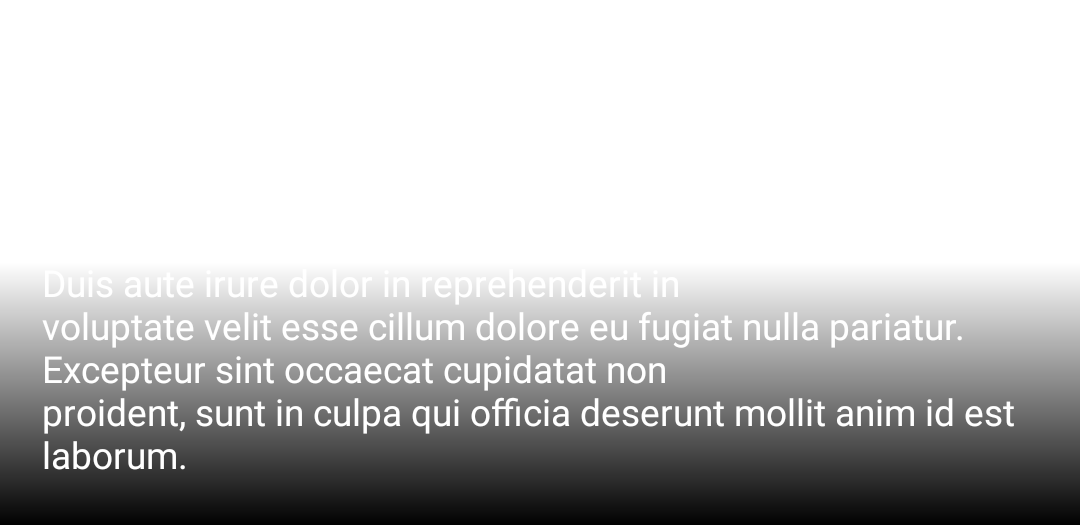
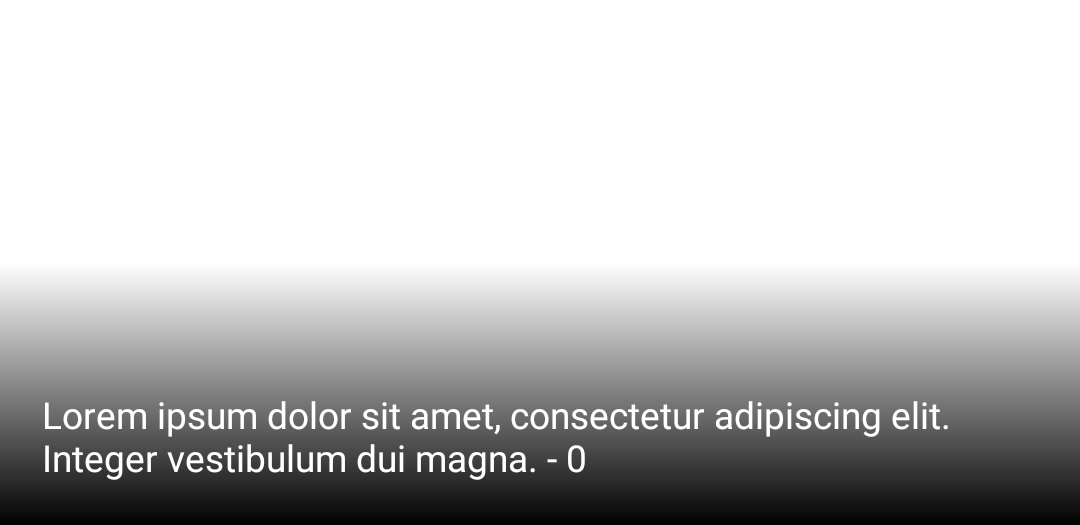
Add screenshots for ViewHolder

diff --git a/app/src/androidTest/java/com/karumi/ui/view/SuperHeroViewHolderTest.kt b/app/src/androidTest/java/com/karumi/ui/view/SuperHeroViewHolderTest.kt
@@ -6,6 +6,8 @@ import com.karumi.R
 import com.karumi.domain.model.SuperHero
 import com.karumi.ui.presenter.SuperHeroesPresenter
 import com.karumi.ui.view.adapter.SuperHeroViewHolder
+import com.karumi.utils.TextLength
+import com.karumi.utils.getTestTextByLength
 import org.junit.Test
 import org.mockito.Mockito.mock
 
@@ -22,8 +24,28 @@ class SuperHeroViewHolderTest : ScreenshotTest {
     }
 
     @Test
-    fun showsSuperHeroWithLongDescription() {
-        val superHero = givenASuperHeroWithALongDescription()
+    fun showsAvenger() {
+        val superHero = givenASuperHero(isAvenger = true)
+        val holder = givenASuperHeroViewHolder()
+
+        holder.render(superHero)
+
+        compareScreenshot(holder, R.dimen.super_hero_row_height)
+    }
+
+    @Test
+    fun showsSuperHeroWithNoName() {
+        val superHero = givenASuperHeroWithNameLength(TextLength.EMPTY)
+        val holder = givenASuperHeroViewHolder()
+
+        holder.render(superHero)
+
+        compareScreenshot(holder, R.dimen.super_hero_row_height)
+    }
+
+    @Test
+    fun showsSuperHeroWithShortName() {
+        val superHero = givenASuperHeroWithNameLength(TextLength.SHORT)
         val holder = givenASuperHeroViewHolder()
 
         holder.render(superHero)
@@ -33,7 +55,17 @@ class SuperHeroViewHolderTest : ScreenshotTest {
 
     @Test
     fun showsSuperHeroWithLongName() {
-        val superHero = givenASuperHeroWithALongName()
+        val superHero = givenASuperHeroWithNameLength(TextLength.LONG)
+        val holder = givenASuperHeroViewHolder()
+
+        holder.render(superHero)
+
+        compareScreenshot(holder, R.dimen.super_hero_row_height)
+    }
+
+    @Test
+    fun showsSuperHeroWithVeryLongName() {
+        val superHero = givenASuperHeroWithNameLength(TextLength.VERY_LONG)
         val holder = givenASuperHeroViewHolder()
 
         holder.render(superHero)
@@ -46,20 +78,14 @@ class SuperHeroViewHolderTest : ScreenshotTest {
         val inflater = LayoutInflater.from(context)
         val view = inflater.inflate(R.layout.super_hero_row, null, false)
         return SuperHeroViewHolder(
-            view,
-            mock<SuperHeroesPresenter>(SuperHeroesPresenter::class.java)
+                view,
+                mock<SuperHeroesPresenter>(SuperHeroesPresenter::class.java)
         )
     }
 
-    private fun givenASuperHeroWithALongDescription(): SuperHero {
-        val superHeroName = "Super Hero Name"
-        val superHeroDescription = """
-            |Lorem ipsum dolor sit amet, consectetur adipiscing elit, sed do eiusmod tempor
-            |incididunt ut labore et dolore magna aliqua. Ut enim ad minim veniam, quis nostrud exercitation
-            |ullamco laboris nisi ut aliquip ex ea commodo consequat. Duis aute irure dolor in reprehenderit in
-            |voluptate velit esse cillum dolore eu fugiat nulla pariatur. Excepteur sint occaecat cupidatat non
-            |proident, sunt in culpa qui officia deserunt mollit anim id est laborum.
-            |""".trimMargin()
+    private fun givenASuperHeroWithNameLength(nameLength: TextLength): SuperHero {
+        val superHeroName = getTestTextByLength(nameLength)
+        val superHeroDescription = "Description Super Hero"
         val isAvenger = false
         return givenASuperHero(superHeroName, superHeroDescription, isAvenger)
     }
@@ -78,8 +104,8 @@ class SuperHeroViewHolderTest : ScreenshotTest {
     }
 
     private fun givenASuperHero(
-        superHeroName: String = "Super Hero Name",
-        superHeroDescription: String = "Super Hero Description",
-        isAvenger: Boolean = false
+            superHeroName: String = "Super Hero Name",
+            superHeroDescription: String = "Super Hero Description",
+            isAvenger: Boolean = false
     ): SuperHero = SuperHero(superHeroName, null, isAvenger, superHeroDescription)
 }
